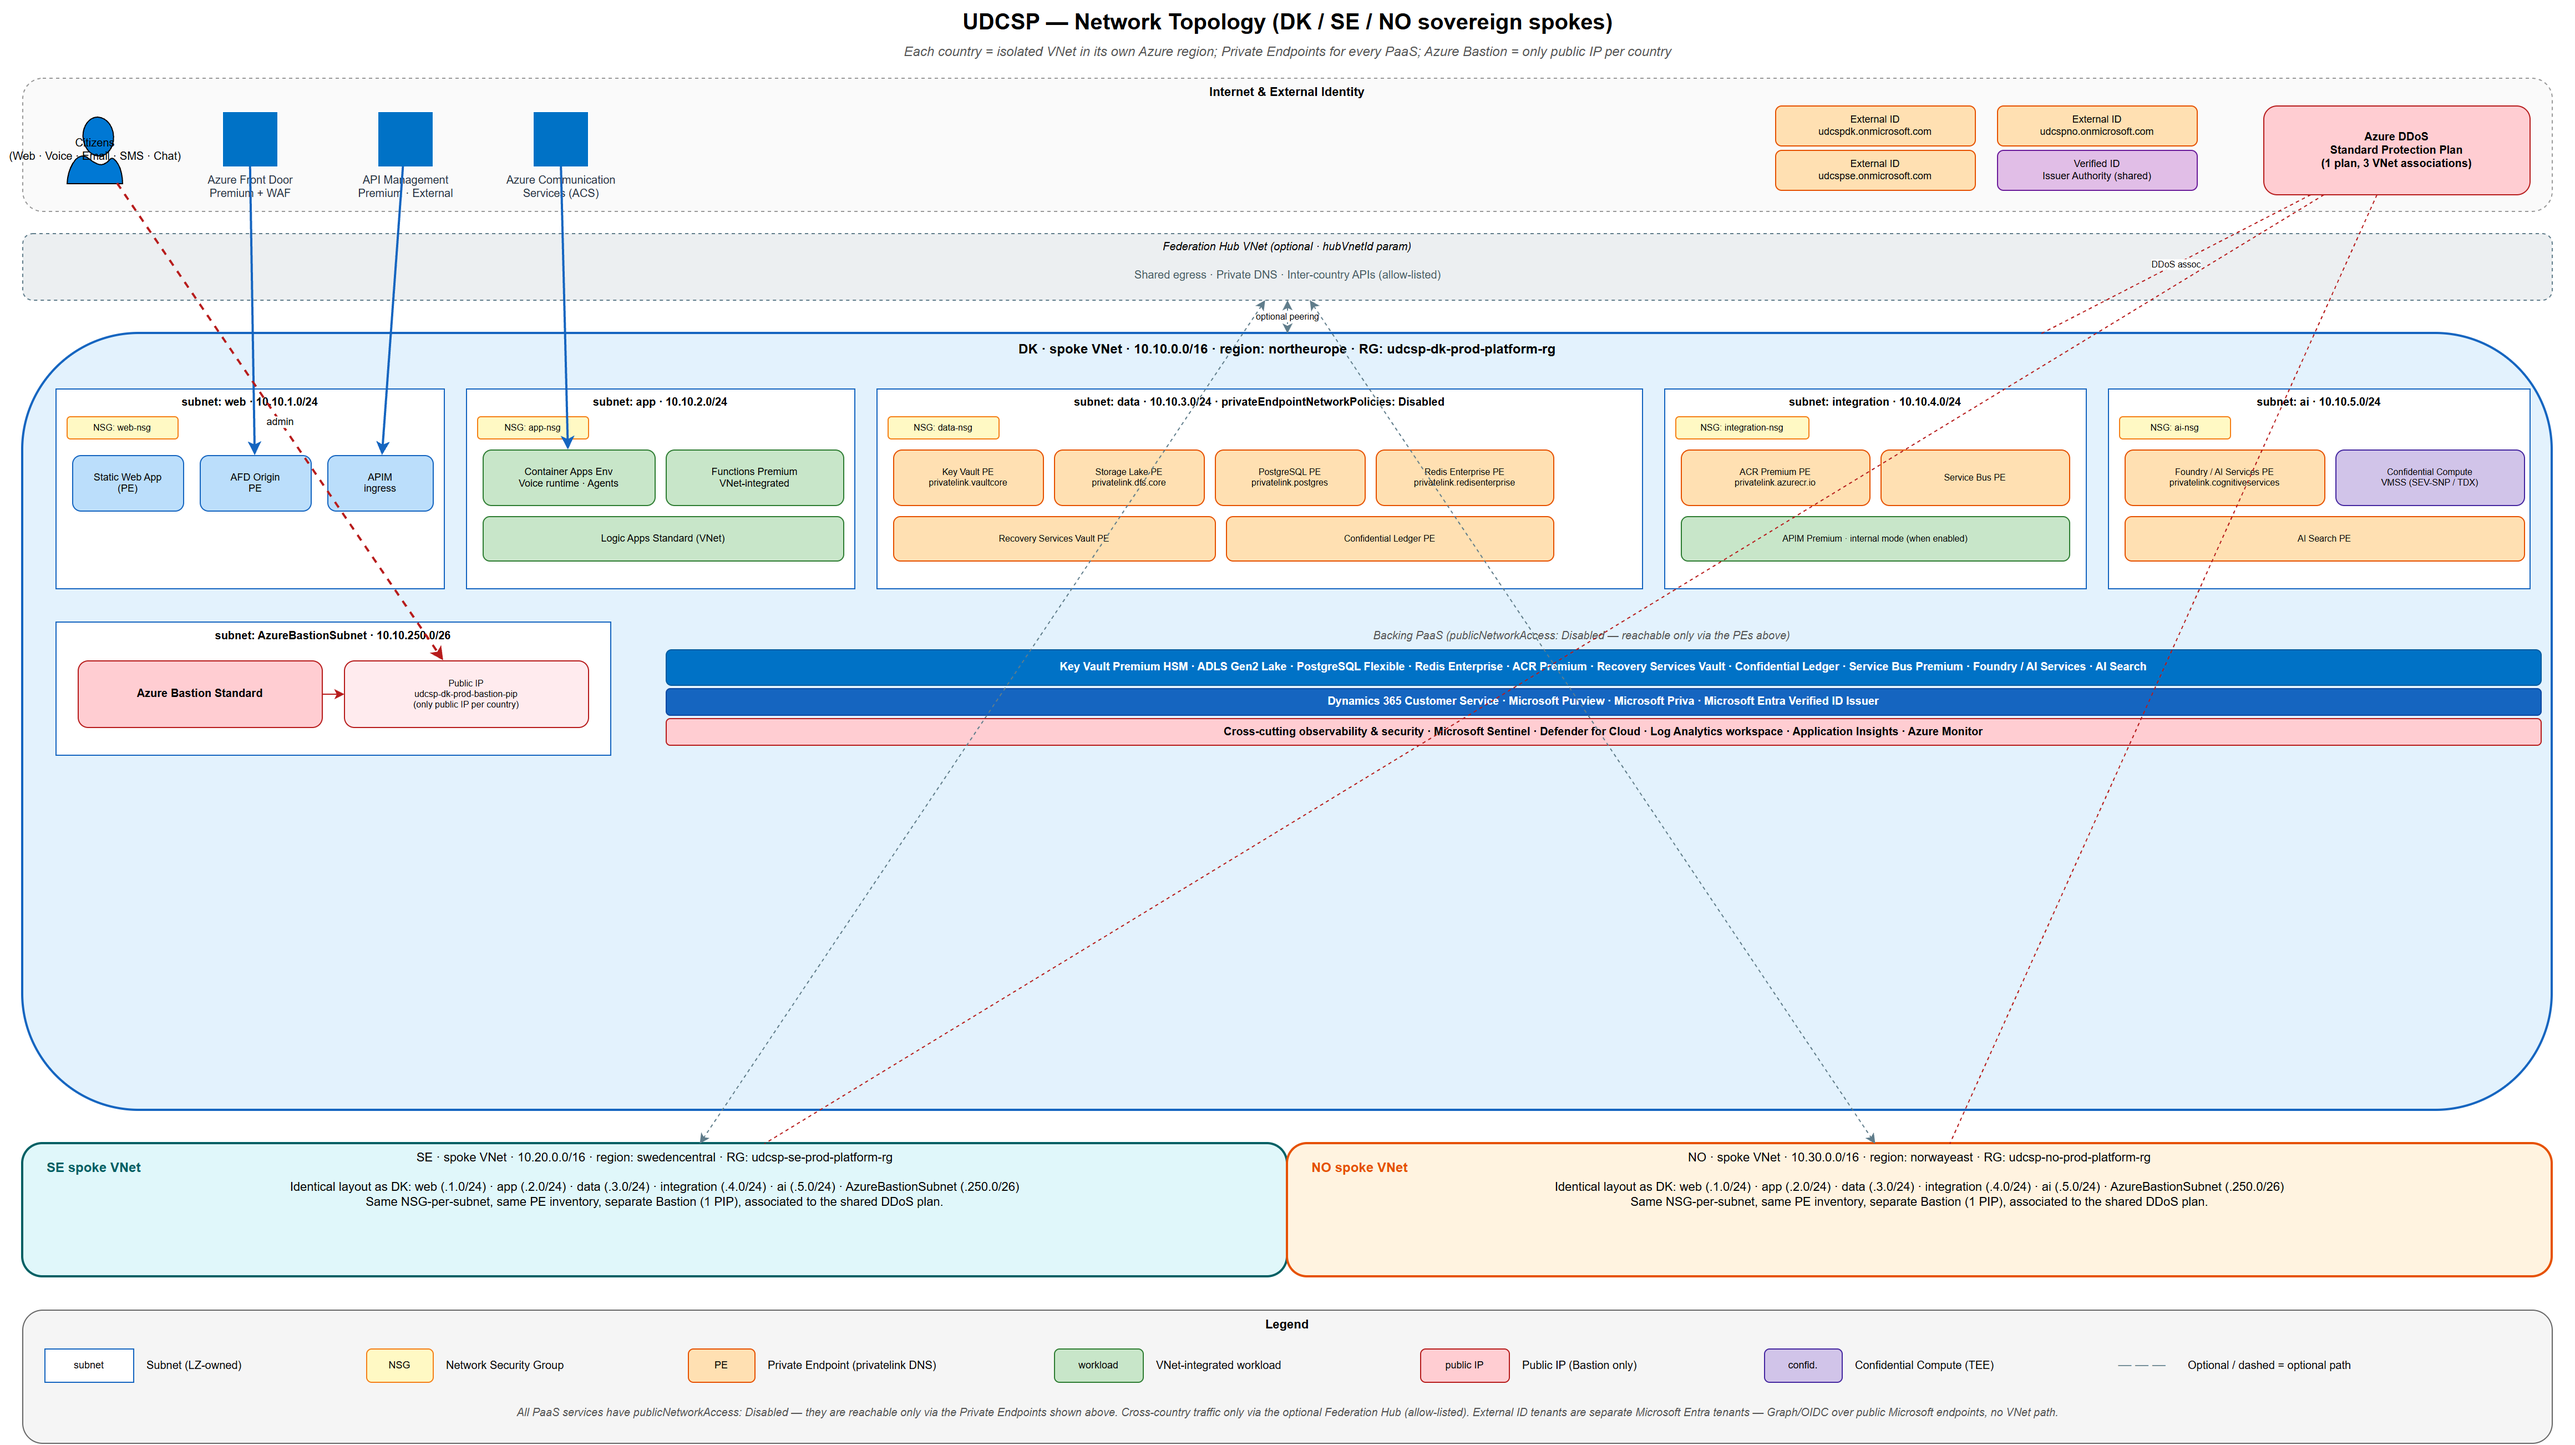
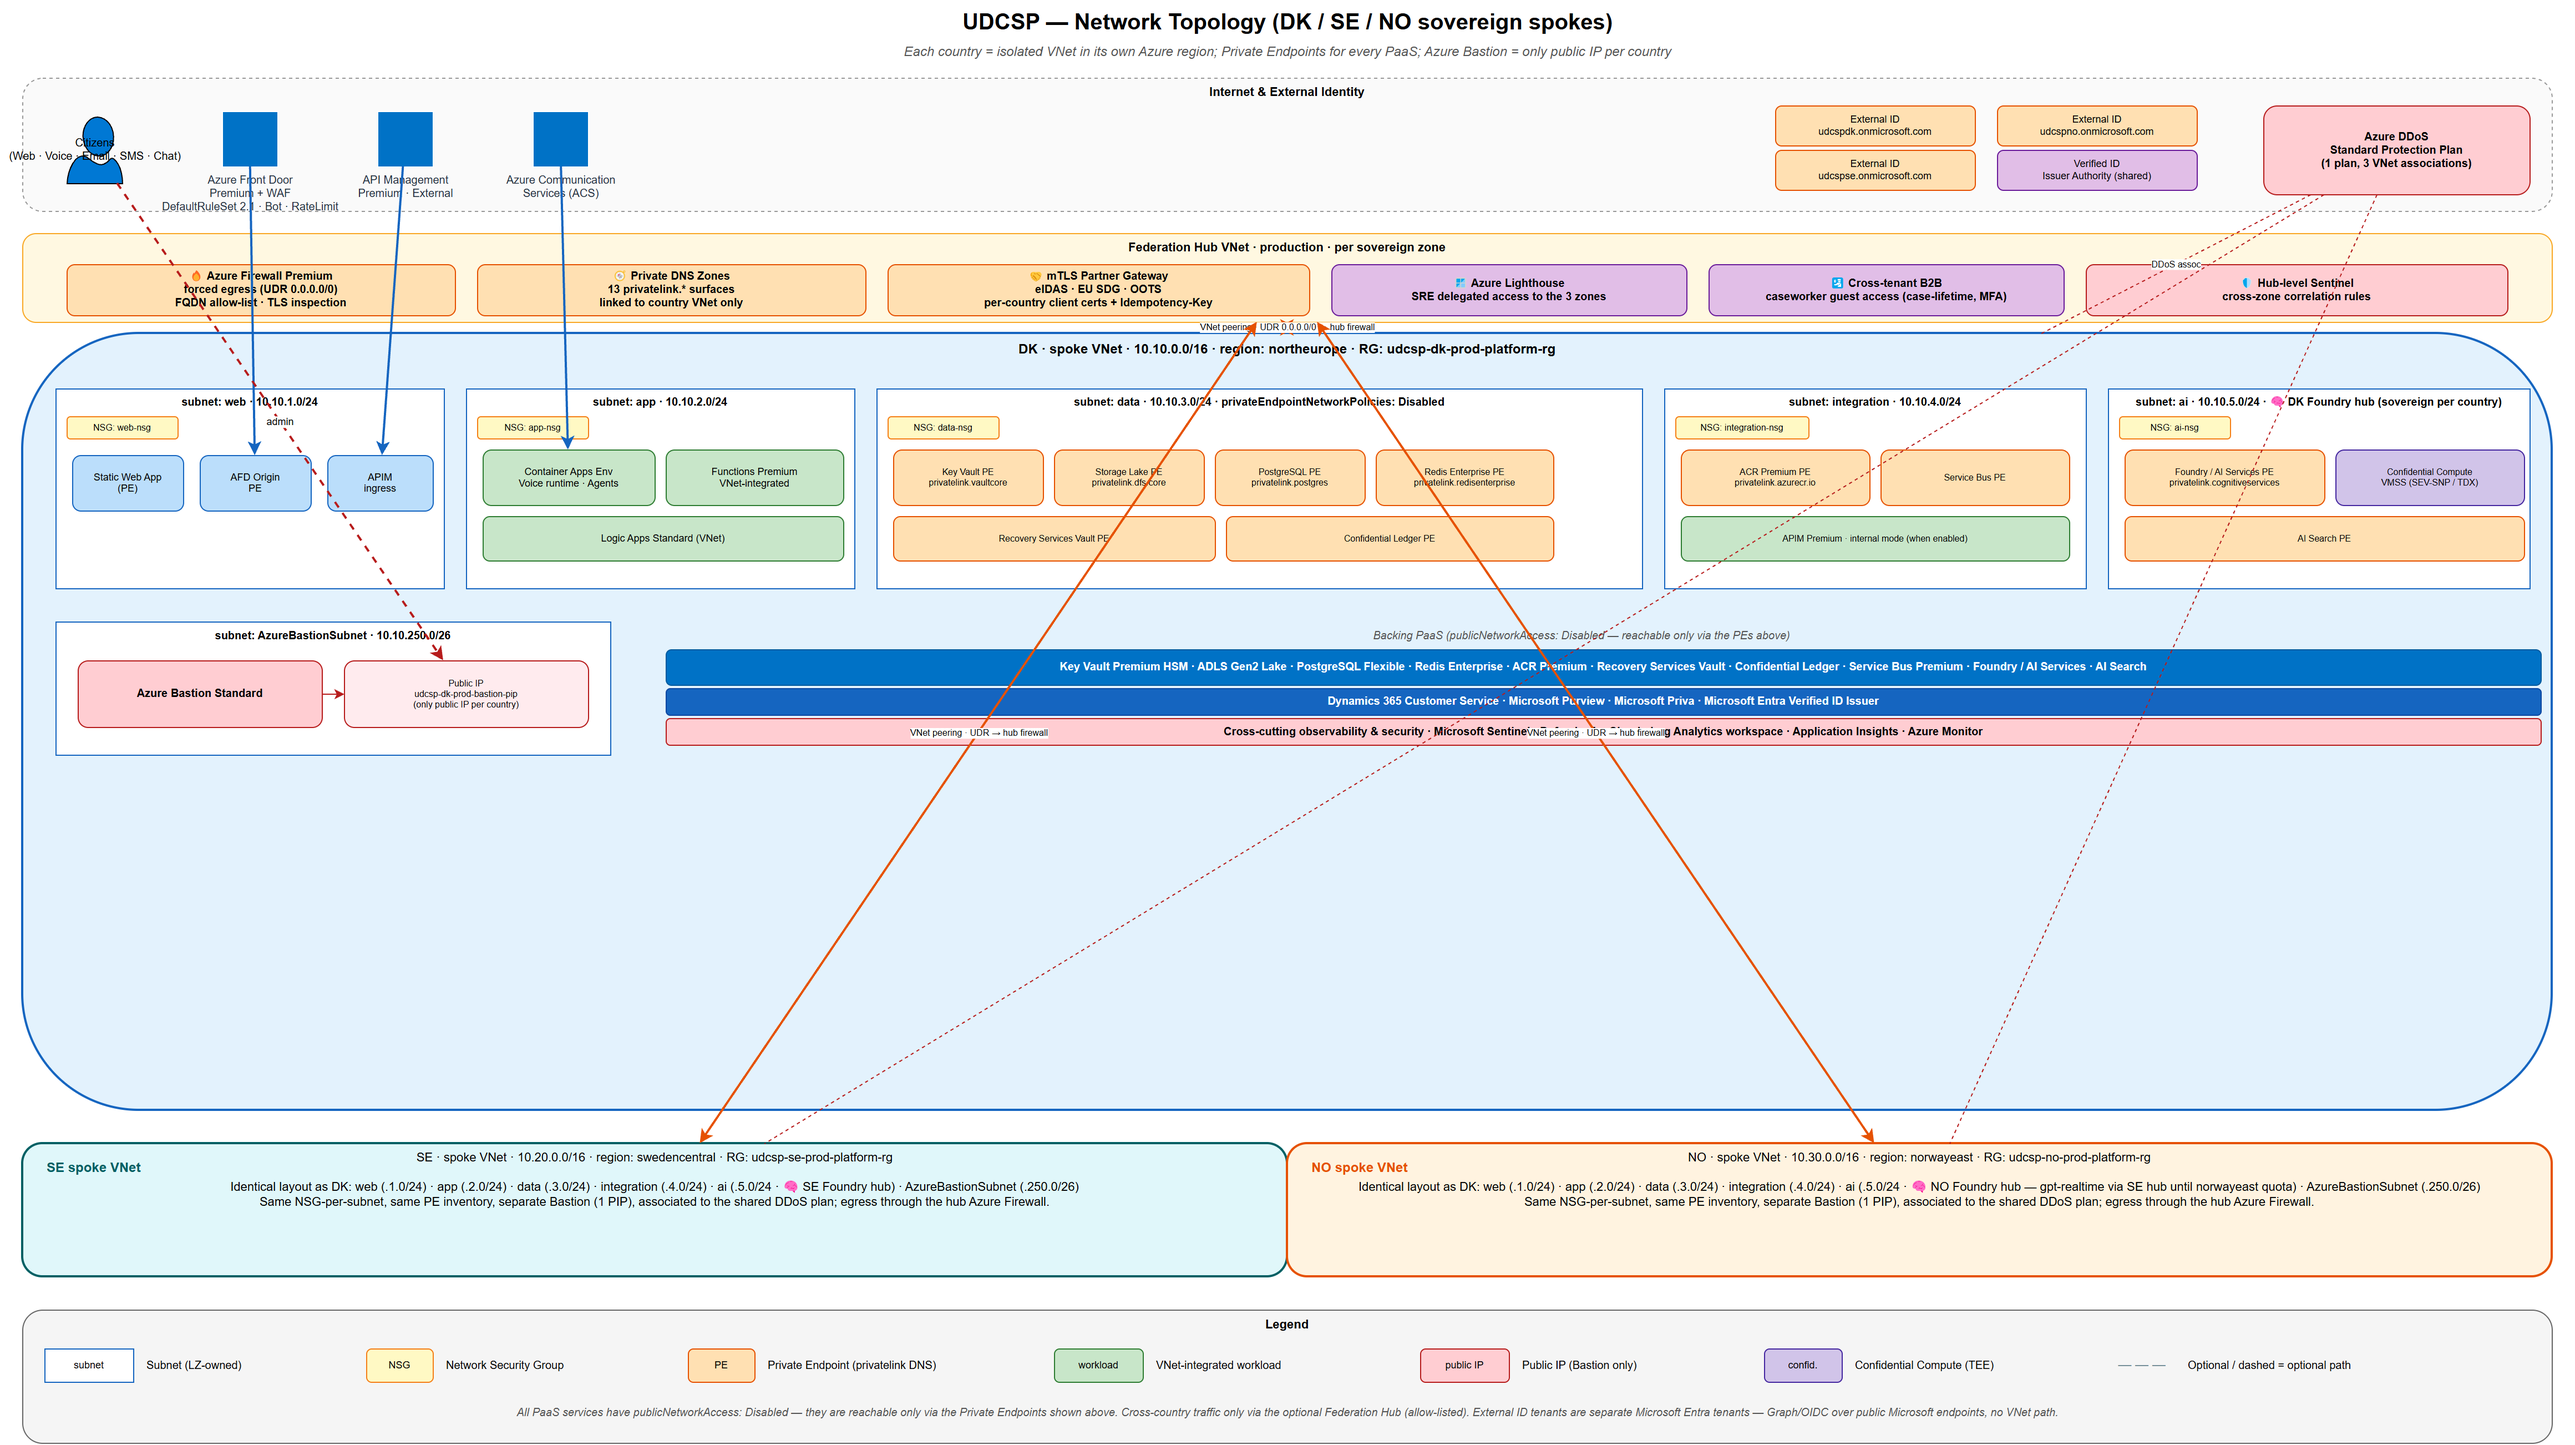
docs(network): refresh drawio + PNG for target production architecture
Updated network.drawio to reflect the production topology decisions:
- Federation Hub VNet is now PRODUCTION-GRADE (not optional). Replaced
  the single label with explicit child boxes:
  · Azure Firewall Premium (forced egress + FQDN allow-list + TLS
    inspection)
  · Private DNS Zones (13 privatelink surfaces · linked per country
    only)
  · mTLS Partner Gateway (eIDAS · EU SDG · OOTS)
  · Azure Lighthouse (SRE delegated access to the 3 zones)
  · Cross-tenant B2B (caseworker guest access — case-lifetime, MFA)
  · Hub-level Sentinel (cross-zone correlation rules)
- Front Door label expanded with WAF ruleset names (DefaultRuleSet
  2.1 + Bot + RateLimit).
- DK / SE / NO 'ai' subnet annotated with the country Foundry hub.
- NO compact banner notes the gpt-realtime sovereignty exception
  (uses SE hub until norwayeast quota lands).
- Hub-to-spoke peering arrows are now solid orange with 'UDR
  0.0.0.0/0 → hub firewall' label (no longer dashed 'optional').

network.png regenerated at 4642 × 2604 via the drawio2png skill
(SVG export + Puppeteer rasterisation to avoid the drawio CLI bbox
clipping bug).

network.md TL;DR + design principle 2 updated to reflect that the
hub is production-grade and always deployed. 'Last reviewed' bumped
to 2026-05-17.

diff --git a/docs/tech/network.md b/docs/tech/network.md
@@ -5,11 +5,11 @@
 ---
 
 > [!IMPORTANT]
-> **TL;DR.** Each country (DK · SE · NO) runs in its own `/16` spoke VNet, in its own Azure region, in its own RG. Every PaaS that touches citizen data is reached via **Private Endpoint** with `publicNetworkAccess: Disabled`. The **only public IP per country** is the Azure Bastion PIP — all admin access funnels through it (no jump-box, no public NICs). The **LandingZone module is the single ARM owner of every subnet** (including `AzureBastionSubnet`); all downstream modules reference subnets via `existing` to keep redeploys idempotent. One **Azure DDoS Protection Standard** plan covers all 3 spokes via one association per VNet.
+> **TL;DR.** Each country (DK · SE · NO) runs in its own `/16` spoke VNet, in its own Azure region, in its own RG, with its own **Foundry hub** in the `ai` subnet. Every PaaS that touches citizen data is reached via **Private Endpoint** with `publicNetworkAccess: Disabled`. The **only public IP per country** is the Azure Bastion PIP — all admin access funnels through it (no jump-box, no public NICs). The **federation hub VNet** is a **production-grade always-on component** that hosts the **Azure Firewall Premium** (forced egress + FQDN allow-list + TLS inspection), the **Private DNS zones** (linked per country only), the **mTLS partner gateway** (eIDAS / EU SDG / OOTS), the **Azure Lighthouse + cross-tenant B2B** plane, and a **hub-level Sentinel** for cross-zone correlation. The **LandingZone module is the single ARM owner of every subnet** (including `AzureBastionSubnet`); all downstream modules reference subnets via `existing` to keep redeploys idempotent. One **Azure DDoS Protection Standard** plan covers all 3 spokes via one association per VNet.
 >
 > 📐 The accompanying schematic is generated from [`network.drawio`](./network.drawio) and exported below as [`network.png`](./network.png). Re-render with the `drawio2png` skill if you edit the source.
 >
-> 🔧 **Owner:** Landing Zone module · **Implemented in:** `infra/landing-zone/modules/networking.bicep` · **Last reviewed:** 2026-05-11.
+> 🔧 **Owner:** Landing Zone module · **Implemented in:** `infra/landing-zone/modules/networking.bicep` · **Last reviewed:** 2026-05-17.
 
 ![UDCSP network topology](./network.png)
 
@@ -35,7 +35,7 @@
 | # | Principle | Why |
 |---|-----------|-----|
 | 1 | **Per-country sovereign spoke VNet** | Each citizen-data plane (DK, SE, NO) lives in its own VNet, in its own Azure region, in its own resource group. No cross-country data path at network layer. |
-| 2 | **Hub-and-spoke ready** | Each spoke optionally peers to a federation hub VNet (`hubVnetId` parameter) for shared egress, DNS, and inter-country APIs that are explicitly allow-listed. Today the federation hub is not deployed; the parameter is left empty. |
+| 2 | **Hub-and-spoke production topology** | Each spoke peers to the **federation hub VNet** per sovereign zone. The hub is **always deployed in production** (no longer optional) and hosts: Azure Firewall Premium (forced egress for every spoke via UDR `0.0.0.0/0`), the per-country Private DNS Zones, the mTLS partner gateway, the Lighthouse/B2B plane, and the hub-level Sentinel. The `hubVnetId` parameter on each spoke is mandatory in PROD. |
 | 3 | **Private endpoints by default** | Every PaaS service that touches citizen data (Key Vault, Storage Account, ACR, PostgreSQL, Redis Enterprise, Recovery Services Vault) has `publicNetworkAccess: Disabled` and is reached via a Private Endpoint inside the spoke. |
 | 4 | **One public IP exception: Azure Bastion** | The only public IP per country is the Bastion `pip`. All admin sessions go through Bastion → no jump-box, no NIC-level public IPs anywhere else. Tagged `publicIpException: 'azure-bastion-only'` for Policy enforcement. |
 | 5 | **NSG per subnet, not per workload** | Each named subnet (web, app, data, integration, ai) gets its own NSG. Default-deny inbound from Internet; rules are added by capability modules. |
